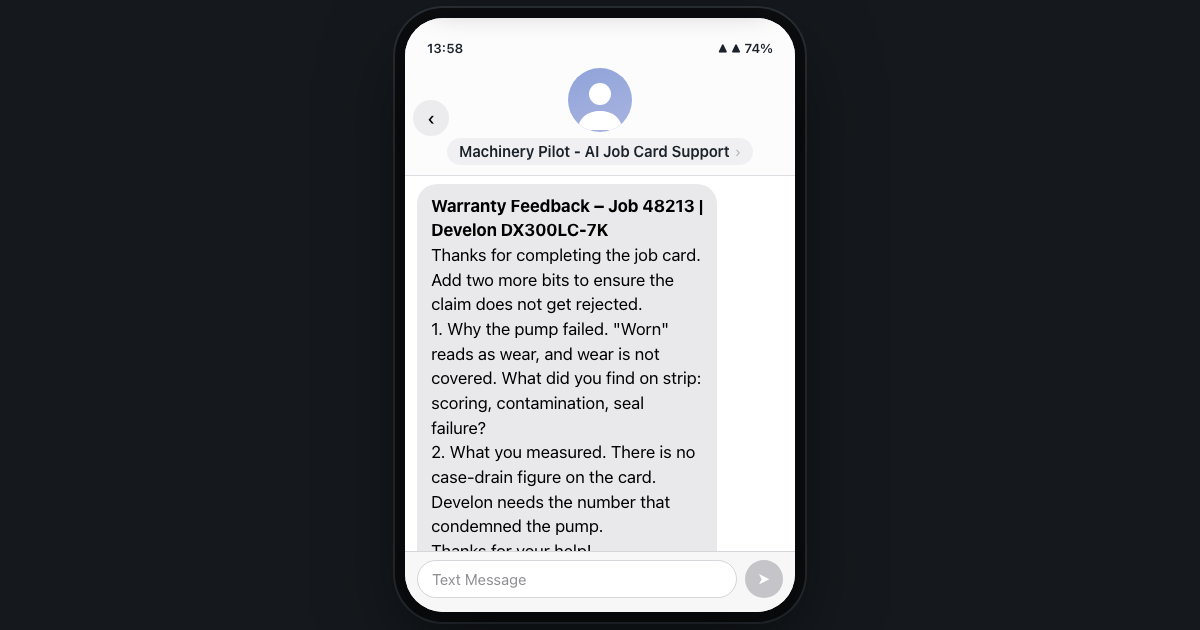
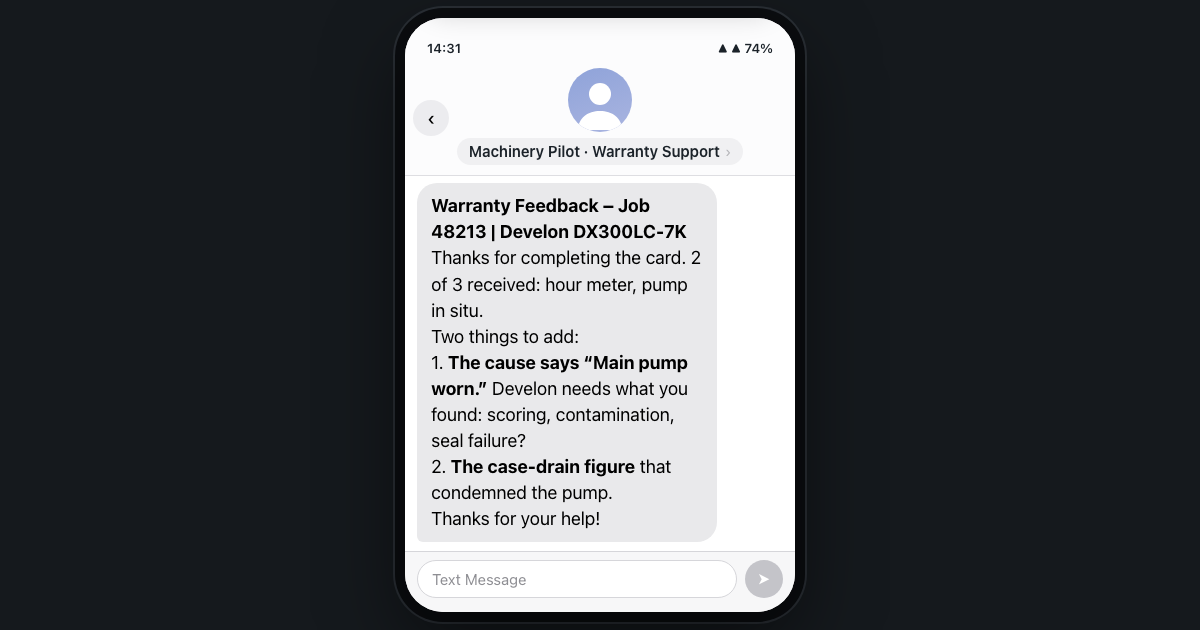
v10: one-liner first, evidence-framed feedback, resolution text, end card, pause/replay

Changed region(s): [[0.3392, 0.3016, 0.5858, 0.8746], [0.37, 0.2111, 0.6167, 0.2714], [0.37, 0.0603, 0.4008, 0.0905]]

diff --git a/public/index.html b/public/index.html
@@ -97,11 +97,20 @@
     margin:12px 0 7px;font-size:12px;line-height:1.3;color:#8E8E93;text-align:center}
   .msg{max-width:82%;padding:10px 14px;border-radius:20px;font-size:17px;line-height:1.45;background:var(--bubble-in);color:#000;white-space:pre-wrap}
   .msg.in{align-self:flex-start;border-bottom-left-radius:6px}
+  .msg.big{font-size:18px}
   .composer{display:flex;gap:8px;padding:8px 12px 14px;background:#F7F7F8;border-top:1px solid #D6D6DA}
   .composer div{flex:1;height:38px;border-radius:19px;background:#fff;border:1px solid #D6D6DA;color:#8E8E93;font-size:15px;display:flex;align-items:center;padding:0 14px}
   .composer span{width:38px;height:38px;border-radius:50%;background:#C4C4C9;color:#fff;display:grid;place-items:center;font-size:16px}
   .q.ok{box-shadow:inset 4px 0 0 var(--ok);background:#F5FBF7}
   .fade3{animation:cut .3s ease}
+  /* app label, pause pill */
+  .apptag{position:absolute;top:104px;right:12px;z-index:15;padding:4px 10px;border-radius:999px;
+    background:#E7EAEE;color:#5B6770;font-size:11.5px;font-weight:600;opacity:0;transition:opacity .35s;pointer-events:none}
+  .apptag.on{opacity:1}
+  .paused{position:absolute;left:50%;bottom:18px;transform:translateX(-50%);z-index:60;pointer-events:none;
+    padding:6px 15px;border-radius:999px;background:rgba(0,0,0,.72);color:#fff;font-size:12.5px;font-weight:600;
+    opacity:0;transition:opacity .2s}
+  .paused.on{opacity:1}
   /* title cards (own names: .card/.row/.h belong to the job screens) */
   .title-card{background:#15191D}
   .title-card .tc{flex:1;display:flex;flex-direction:column;justify-content:center;gap:16px;padding:26px 24px;text-align:center}
@@ -109,13 +118,17 @@
   .title-card .brand{font-size:15px;font-weight:600;color:#4A8FD1;margin-bottom:2px}
   /* end card */
   .end-card{background:#15191D}
-  .end-card .ec{flex:1;display:flex;flex-direction:column;padding:26px 22px 28px}
+  .end-card .ec{flex:1;display:flex;flex-direction:column;padding:26px 22px 26px}
+  .end-card .hl{font-size:19px;font-weight:600;line-height:1.35;color:#fff;text-align:center}
+  .end-card .proof{margin-top:16px;font-size:14px;line-height:1.4;color:#8E99A3;text-align:center}
+  .end-card .replay{padding:9px 22px;border:1px solid #4A8FD1;border-radius:22px;background:transparent;
+    color:#4A8FD1;font-size:15px;font-weight:500}
+  .end-card .replay:hover{background:rgba(74,143,209,.12)}
   .end-card .steps{flex:1;display:flex;flex-direction:column;justify-content:center;gap:14px;list-style:none;counter-reset:s}
   .end-card .steps li{position:relative;padding-left:27px;font-size:17px;line-height:1.5;color:#fff}
   .end-card .steps li::before{counter-increment:s;content:counter(s) ".";position:absolute;left:0;color:#4A8FD1;font-weight:600}
-  .end-card .sig{padding-top:26px;text-align:center}
-  .end-card .sig b{display:block;font-size:15px;font-weight:600;color:#fff}
-  .end-card .sig span{display:block;margin-top:3px;font-size:13px;color:#8E99A3}
+  .end-card .sig{padding-top:22px;text-align:center}
+  .end-card .sig span{display:block;margin-top:12px;font-size:13px;color:#8E99A3}
   /* desktop progress strip */
   .strip{display:none;gap:9px;align-items:center;font-size:12.5px}
   .strip b{font-weight:500;color:#66727C;transition:color .3s}
@@ -139,6 +152,7 @@
     .phone{width:100vw;height:100dvh;border-radius:0;box-shadow:none}
     .statusbar{display:none}
     .banner{top:10px}
+    .apptag{top:60px}
   }
   @media (min-height:848px) and (min-width:431px){
     .auto .strip{display:flex}
@@ -156,34 +170,37 @@
 <div class="phone" id="phone">
 
   <div class="tip" id="tip" aria-hidden="true"></div>
+  <div class="apptag" id="appTag">Ibcos Gold · job card</div>
+  <div class="paused" id="pausedPill">Paused</div>
 
   <!-- TITLE CARDS -->
   <section class="screen title-card" id="s-c1">
     <div class="tc">
-      <p>A dealer's engineer fixes a machine under warranty.</p>
-      <p>The OEM rejects the claim: "insufficient evidence."</p>
-      <p>The dealer eats the bill.</p>
+      <p>Machinery Pilot checks dealers’ job cards and texts engineers what’s missing while they’re still at the machine.</p>
     </div>
   </section>
   <section class="screen title-card" id="s-c2">
     <div class="tc">
       <b class="brand">Machinery Pilot</b>
-      <p>We text the engineer what the OEM needs, and what's missing, before he leaves the machine.</p>
-      <p>No new app. Nothing changes for him.</p>
+      <p>A dealer’s engineer fixes a machine under warranty.</p>
+      <p>The OEM rejects the claim.</p>
+      <p>The dealer does not recover it.</p>
     </div>
   </section>
 
   <!-- END CARD -->
   <section class="screen end-card" id="s-end">
     <div class="ec">
+      <p class="hl">Claims that get paid first time. Keep your existing job app.</p>
       <ol class="steps">
-        <li>Use Ibcos, JobWatch or whatever you have. Nothing changes.</li>
-        <li>Get the OEM's evidence list by text when the job opens.</li>
+        <li>Keep Ibcos, JobWatch or whatever you have.</li>
+        <li>Get the OEM’s evidence list by text when the job opens.</li>
         <li>Fill the job card as usual.</li>
-        <li>Get told exactly what's missing before you leave the machine.</li>
-        <li>Nothing to chase. Nothing to rebuild. Nothing rejected for evidence.</li>
+        <li>Get told exactly what’s missing while you’re still at the machine.</li>
+        <li>Evidence complete before the claim leaves the yard.</li>
       </ol>
-      <div class="sig"><b>Machinery Pilot</b><span>machinerypilot.com</span></div>
+      <p class="proof" id="proofPoint" hidden></p>
+      <div class="sig"><button class="replay" id="replayBtn">Replay</button><span>machinerypilot.com</span></div>
     </div>
   </section>
 
@@ -199,14 +216,14 @@
 
   <!-- JOBS LIST -->
   <section class="screen on" id="s-jobs">
-    <div class="statusbar"><span>13:58</span><span>▲ ▲ 74%</span></div>
+    <div class="statusbar"><span class="clk">13:58</span><span>▲ ▲ 74%</span></div>
     <div class="topbar"><span style="font-size:18px">☰</span><span>Jobs (3)</span></div>
     <div class="content" id="jobsList"></div>
   </section>
 
   <!-- JOB DETAIL -->
   <section class="screen" id="s-job">
-    <div class="statusbar"><span>13:58</span><span>▲ ▲ 74%</span></div>
+    <div class="statusbar"><span class="clk">13:58</span><span>▲ ▲ 74%</span></div>
     <div class="topbar"><button class="back" data-go="jobs" aria-label="Back">‹</button><span>Job 48213</span><span class="spacer"></span><button class="tick" id="tickBtn" aria-label="Complete job" title="Complete job">✓</button></div>
     <div class="content">
       <div class="machine">
@@ -218,7 +235,7 @@
       <div class="h">Tasks</div>
       <div class="card">
         <button class="row"><span>Risk assessment</span><span class="prog ok">Signed 13:52</span></button>
-        <button class="row" id="wsRow" data-go="worksheet"><span>Worksheet, hydraulic breakdown</span><span><span class="prog" id="wsProg">0 of 7</span><span class="chev">›</span></span></button>
+        <button class="row" id="wsRow" data-go="worksheet"><span>Worksheet – Hydraulic breakdown</span><span><span class="prog" id="wsProg">0 of 7</span><span class="chev">›</span></span></button>
         <button class="row"><span>Parts used</span><span><span class="prog" id="partsProg">None</span><span class="chev">›</span></span></button>
         <button class="row"><span>Photos</span><span><span class="prog" id="photoProg">0</span><span class="chev">›</span></span></button>
       </div>
@@ -229,7 +246,7 @@
 
   <!-- WORKSHEET -->
   <section class="screen" id="s-ws">
-    <div class="statusbar"><span>13:58</span><span>▲ ▲ 74%</span></div>
+    <div class="statusbar"><span class="clk">13:58</span><span>▲ ▲ 74%</span></div>
     <div class="topbar"><button class="back" data-go="job" aria-label="Back">‹</button><span id="wsTitle"></span></div>
     <div class="content" id="wsForm">
       <div class="q"><label>Hour meter reading<i>*</i></label><input id="q-hours" inputmode="numeric" placeholder="e.g. 1240"></div>
@@ -245,12 +262,12 @@
 
   <!-- THREAD -->
   <section class="screen thread" id="s-thread">
-    <div class="statusbar"><span>13:58</span><span>▲ ▲ 74%</span></div>
+    <div class="statusbar"><span class="clk">13:58</span><span>▲ ▲ 74%</span></div>
     <div class="topbar">
       <button class="back" id="threadBack" aria-label="Back">‹</button>
       <div class="who">
         <div class="av" aria-hidden="true"><svg viewBox="0 0 64 64"><circle cx="32" cy="26" r="11"/><path d="M10 62c0-12 10-19 22-19s22 7 22 19z"/></svg></div>
-        <div class="nm">Machinery Pilot - AI Job Card Support <i>›</i></div>
+        <div class="nm">Machinery Pilot · Warranty Support <i>›</i></div>
       </div>
     </div>
     <div class="content" id="threadBody"></div>
@@ -274,13 +291,26 @@
   const elapsed = () => Date.now()-t0;
   const state = {started:false, completed:false, fixed:false, threadFrom:'job',
     hours:'', hourPhoto:false, partPhoto:false, complaint:'', cause:'', correction:'', op:null, banner:null};
-  let timers=[];
-  function at(ms,fn){ timers.push(setTimeout(fn,ms)); }
+  let timers=[], paused=false, pausedAt=0;
+  function arm(e,ms){ e.id=setTimeout(()=>{ const i=timers.indexOf(e); if(i>=0) timers.splice(i,1); e.fn(); },ms); }
+  function at(ms,fn){ const e={due:elapsed()+ms,fn,id:null}; arm(e,ms); timers.push(e); }
+  function clearTimers(){ timers.forEach(e=>clearTimeout(e.id)); timers=[]; }
+  function togglePause(){
+    if(!AUTO) return;
+    if(paused){ t0+=Date.now()-pausedAt; paused=false; $('pausedPill').classList.remove('on');
+      timers.forEach(e=>arm(e,Math.max(0,e.due-elapsed())));
+    } else { paused=true; pausedAt=Date.now(); timers.forEach(e=>clearTimeout(e.id));
+      $('pausedPill').classList.add('on'); }
+  }
 
   const JOB='48213', MAKE='Develon', MODEL='DX300LC-7K';
   const REF=`Job ${JOB} | ${MAKE} ${MODEL}`;
-  const H={brief:`Warranty Briefing – ${REF}`, feedback:`Warranty Feedback – ${REF}`, worksheet:`Worksheet – ${REF}`};
-  $('wsTitle').textContent=H.worksheet;
+  const H={brief:`Warranty Briefing – ${REF}`, feedback:`Warranty Feedback – ${REF}`};
+  $('wsTitle').textContent='Worksheet – Hydraulic breakdown';
+  const CLOCK={open:'13:58', started:'13:59', done:'14:31', resolved:'14:34'};
+  const CLKS=[...document.querySelectorAll('.clk')];
+  function setClock(t){ CLKS.forEach(e=>e.textContent=t); }
+  const PROOF_POINT='';            // one line of proof under the steps; empty hides it
 
   const JOBS = [
     {t:'08:30', who:'Brackley Aggregates', type:'Service, 500 h', where:'Doosan DX140LC · Brackley NN13', dist:'18 mi', done:true},
@@ -294,7 +324,7 @@
       const b=document.createElement('button');
       const done = j.done || (j.main && state.completed);
       b.className='job'+(done?' done':'');
-      const doneTxt = j.main ? (state.fixed?'Completed · Develon check clear':'Completed '+state.doneAt) : 'Completed 10:05';
+      const doneTxt = j.main ? (state.fixed?'Completed · Evidence complete':'Completed '+state.doneAt) : 'Completed 10:05';
       b.innerHTML=`<div class="t">${j.t}</div><div><div class="who">${j.who}${j.pill&&!done?`<span class="pill">${j.pill}</span>`:''}</div><div class="type">${done?doneTxt:j.type}</div><div class="where">${j.where}</div></div><div class="dist">${j.dist} ›</div>`;
       if(j.main){ b.id='jobMain'; b.addEventListener('click',()=>go('job')); }
       el.appendChild(b);
@@ -361,25 +391,24 @@
 
   // ---- messages
   const START_MSG = `<b>${H.brief}</b>
-Develon's warranty team requires:
+Develon’s warranty team requires:
 1. Photo of the hour meter
 2. Photo of the failed part in situ, before removal
-3. Case-drain flow reading on the main pump
-4. Photo of the fault code on the dash
-5. Return filter and oil condition, with photo`;
+3. Case-drain flow reading on the main pump`;
   const GAP_MSG = `<b>${H.feedback}</b>
-Thanks for completing the job card. Add two more bits to ensure the claim does not get rejected.
-1. Why the pump failed. "Worn" reads as wear, and wear is not covered. What did you find on strip: scoring, contamination, seal failure?
-2. What you measured. There is no case-drain figure on the card. Develon needs the number that condemned the pump.
+Thanks for completing the card. 2 of 3 received: hour meter, pump in situ.
+Two things to add:
+1. <b>The cause says “Main pump worn.”</b> Develon needs what you found: scoring, contamination, seal failure?
+2. <b>The case-drain figure</b> that condemned the pump.
 Thanks for your help!`;
+  const DONE_MSG = `Received. Evidence complete for Develon. Ready for the office.`;
 
-  function addMsg(html,dir,when){
+  function addMsg(html,dir,when,cls){
     const t=document.createElement('div'); t.className='stamp';
     t.innerHTML='<span>Text Message • SMS</span><span>Today at '+when+'</span>';
-    const m=document.createElement('div'); m.className='msg '+dir; m.innerHTML=html;
+    const m=document.createElement('div'); m.className='msg '+dir+(cls?' '+cls:''); m.innerHTML=html;
     $('threadBody').append(t,m); $('threadBody').scrollTop=1e6;
   }
-  function stamp(){ const d=new Date(); return d.toTimeString().slice(0,5); }
   function msgDelay(kind){
     if(!AUTO) return kind==='start'?1500:3500;
     if(kind==='start') return 2000;                              // tapped at 4.0 s -> banner at 6.0 s
@@ -395,10 +424,10 @@ Thanks for your help!`;
 
   // ---- flow
   $('startBtn').addEventListener('click',()=>{
-    state.started=true; syncJob(); state.startAt=stamp();
+    state.started=true; syncJob(); state.startAt=CLOCK.started; setClock(CLOCK.started);
     if(!AUTO) at(600,fillWorksheet);   // manual: the card arrives filled, so Complete is always reachable
     timers.push(setTimeout(()=>{
-      addMsg(START_MSG,'in','13:59');
+      addMsg(START_MSG,'in',CLOCK.started);
       notify(H.brief,`Develon's warranty team requires 5 items on this job.`,()=>{state.threadFrom='job';go('thread');});
     },msgDelay('start')));
   });
@@ -408,18 +437,18 @@ Thanks for your help!`;
 
   function doComplete(){
     readWsIfOn(); if(wsCount()<7) return;
-    state.completed=true; state.doneAt=stamp(); go('jobs');
+    state.completed=true; state.doneAt=CLOCK.done; setClock(CLOCK.done); go('jobs');
     timers.push(setTimeout(()=>{
-      addMsg(GAP_MSG,'in','14:31');
+      addMsg(GAP_MSG,'in',CLOCK.done,'big');
       notify(H.feedback,'Two more bits to add before the claim goes off.',()=>{state.threadFrom='jobs';go('thread');});
     },msgDelay('complete')));
   }
 
   function reset(){
-    timers.forEach(clearTimeout); timers=[];
+    clearTimers(); paused=false; $('pausedPill').classList.remove('on');
     Object.assign(state,{started:false,completed:false,fixed:false,threadFrom:'job',hours:'',hourPhoto:false,partPhoto:false,complaint:'',cause:'',correction:'',op:null,banner:null});
     $('threadBody').innerHTML=''; $('banner').classList.remove('on');
-    $('tip').classList.remove('on');
+    $('tip').classList.remove('on'); $('appTag').classList.remove('on'); setClock(CLOCK.open);
     document.querySelectorAll('.content').forEach(c=>c.scrollTop=0);
     document.querySelectorAll('.rise,.fade3').forEach(e=>e.classList.remove('rise','fade3'));
     $('wrap-cause').classList.remove('ok'); STRIP.forEach(b=>b.classList.remove('on'));
@@ -454,9 +483,14 @@ Thanks for your help!`;
     at(t,()=>{ tip.classList.remove('pulse'); const el=get(); if(el) el.click(); });
     at(t+350,()=>tip.classList.remove('on'));
   }
-  const CAUSE_ADD = ' Case drain 1.1 L/min at 2,000 rpm, spec 0.2. Swash plate scored, metal in return filter.';
+  const CAUSE_ADD = ' Swash plate scored, metal in return filter. Case drain 1.1 L/min at 2,000 rpm, spec 0.2.';
   const STRIP=[...document.querySelectorAll('.strip b')];
   function strip(i){ STRIP.forEach((b,k)=>b.classList.toggle('on', i<0 || k===i)); }
+
+  function resolved(){              // the evidence is on the card, so the last text confirms it
+    setClock(CLOCK.resolved); addMsg(DONE_MSG,'in',CLOCK.resolved);
+    notify(H.feedback,'Evidence complete. Ready for the office.',()=>{state.threadFrom='jobs';go('thread');});
+  }
 
   function appendCause(){           // the engineer's answer goes on the card
     state.fixed=true; state.cause=state.cause+CAUSE_ADD; syncWs(); syncJob();
@@ -482,12 +516,13 @@ Thanks for your help!`;
 
   function play(){
     reset(); t0=Date.now();
-    go('c1');                                      //  0.0  title card 1, 4.0
-    at(4000,()=>go('c2'));                         //  4.0  title card 2, 4.0
-    at(8000,()=>{ go('job'); strip(0); });         //  8.0  job detail, 4.0
+    go('c1');                                      //  0.0  card 1, 4.0
+    at(4000,()=>go('c2'));                         //  4.0  card 2, 4.0
+    at(8000,()=>{ go('job'); strip(0); $('appTag').classList.add('on'); });   //  8.0  job detail, 4.0
+    at(11600,()=>$('appTag').classList.remove('on'));
     tapAt(12000,()=>$('startBtn'));                // 12.0  taps Start, 2.0
     at(14000,()=>strip(1));
-    tapAt(16500,()=>$('banner'));                  // 14.0  banner 1, 2.5 -> tapped, thread, 7.0
+    tapAt(16500,()=>$('banner'));                  // 14.0  banner 1, 2.5 -> tapped, text 1, 7.0
     at(23500,()=>go('job'));                       // 23.5  cut back to the job, 2.0
     tapAt(25500,()=>$('wsRow')); at(25500,()=>strip(2));   // 25.5  taps the worksheet row, 1.0
     at(27500,fadeFill);                            // 27.5  seven fields rise, then still, 5.0
@@ -495,17 +530,27 @@ Thanks for your help!`;
     tapAt(32500,()=>$('saveBtn'));                 // 32.5  taps Save...
     at(32900,doComplete);                          //       ...which completes it, 3.0
     at(35500,()=>strip(3));
-    tapAt(39000,()=>$('banner'));                  // 35.5  banner 2, 3.5 -> tapped, thread, 10.0
+    tapAt(39000,()=>$('banner'));                  // 35.5  banner 2, 3.5 -> tapped, text 2, 10.0
     at(49000,()=>strip(4));
-    at(49000,()=>{ state.fixed=true; go('worksheet');                   // 49.0  cut to the card, 2.0
+    at(49000,()=>{ state.fixed=true; go('worksheet');                   // 49.0  cut to the card, 4.0
       const c=$('wsForm'); c.scrollTop=c.scrollHeight; });               //       (fixed first, so no amber flag or focus ring)
     at(49400,appendCause);
-    tapAt(51000,()=>$('saveBtn'));                 // 51.0  taps Save -> jobs list, 3.0
+    tapAt(51000,()=>$('saveBtn'));                 // 51.0  taps Save
     at(51400,()=>go('jobs'));
-    at(54000,()=>go('end')); at(54000,()=>strip(-1));   // 54.0  end card, 7.0
-    at(60500,()=>document.querySelector('.stage').classList.add('fade'));
-    at(61000,()=>{ document.querySelector('.stage').classList.remove('fade'); play(); });
+    at(53000,resolved);                            // 53.0  banner 3, 2.0
+    tapAt(55000,()=>$('banner'));                  // 55.0  tapped, text 3, 5.0
+    at(60000,()=>go('end')); at(60000,()=>strip(-1));   // 60.0  end card, 8.0
+    at(67500,()=>document.querySelector('.stage').classList.add('fade'));
+    at(68000,()=>{ document.querySelector('.stage').classList.remove('fade'); play(); });
   }
+
+  if(PROOF_POINT){ $('proofPoint').textContent=PROOF_POINT; $('proofPoint').hidden=false; }
+  $('replayBtn').addEventListener('click',e=>{ e.stopPropagation(); if(AUTO) play(); });
+  $('phone').addEventListener('click',e=>{            // a real tap anywhere pauses; scripted taps do not
+    if(!AUTO || !e.isTrusted || e.target.closest('#replayBtn')) return;
+    e.stopPropagation(); e.preventDefault(); togglePause();
+  },true);
+  addEventListener('keydown',e=>{ if(AUTO && e.code==='Space'){ e.preventDefault(); togglePause(); } });
 
   if(AUTO){ document.body.classList.add('auto'); play(); } else reset();
 })();

diff --git a/tools/record.py b/tools/record.py
@@ -5,9 +5,9 @@
   python3 tools/record.py --skip-og  # videos only
 
 Outputs (video/ is gitignored):
-  video/raw/desktop.webm      1280x720, one full 61 s loop
-  video/raw/mobile.webm       390x844,  one full 61 s loop
-  video/shots/t{2,6,19,30,44,56}.png verification frames
+  video/raw/desktop.webm      1280x720, one full 68 s loop
+  video/raw/mobile.webm       390x844,  one full 68 s loop
+  video/shots/t{2,6,20,30,44,57,64}.png frames
   public/og.png               1200x630 share image, the gap text
 Then run tools/make-video.sh to produce the mp4s and the gif.
 """
@@ -25,8 +25,8 @@ from playwright.sync_api import sync_playwright
 ROOT = pathlib.Path(__file__).resolve().parent.parent
 PUBLIC = ROOT / "public"
 VIDEO = ROOT / "video"
-LOOP_MS = 61_000          # one full loop of the timeline
-SHOTS_MS = (2_000, 6_000, 19_000, 30_000, 44_000, 56_000)
+LOOP_MS = 68_000          # one full loop of the timeline
+SHOTS_MS = (2_000, 6_000, 20_000, 30_000, 44_000, 57_000, 64_000)
 OG_MS = 44_000            # mid-dwell on the gap text
 
 
